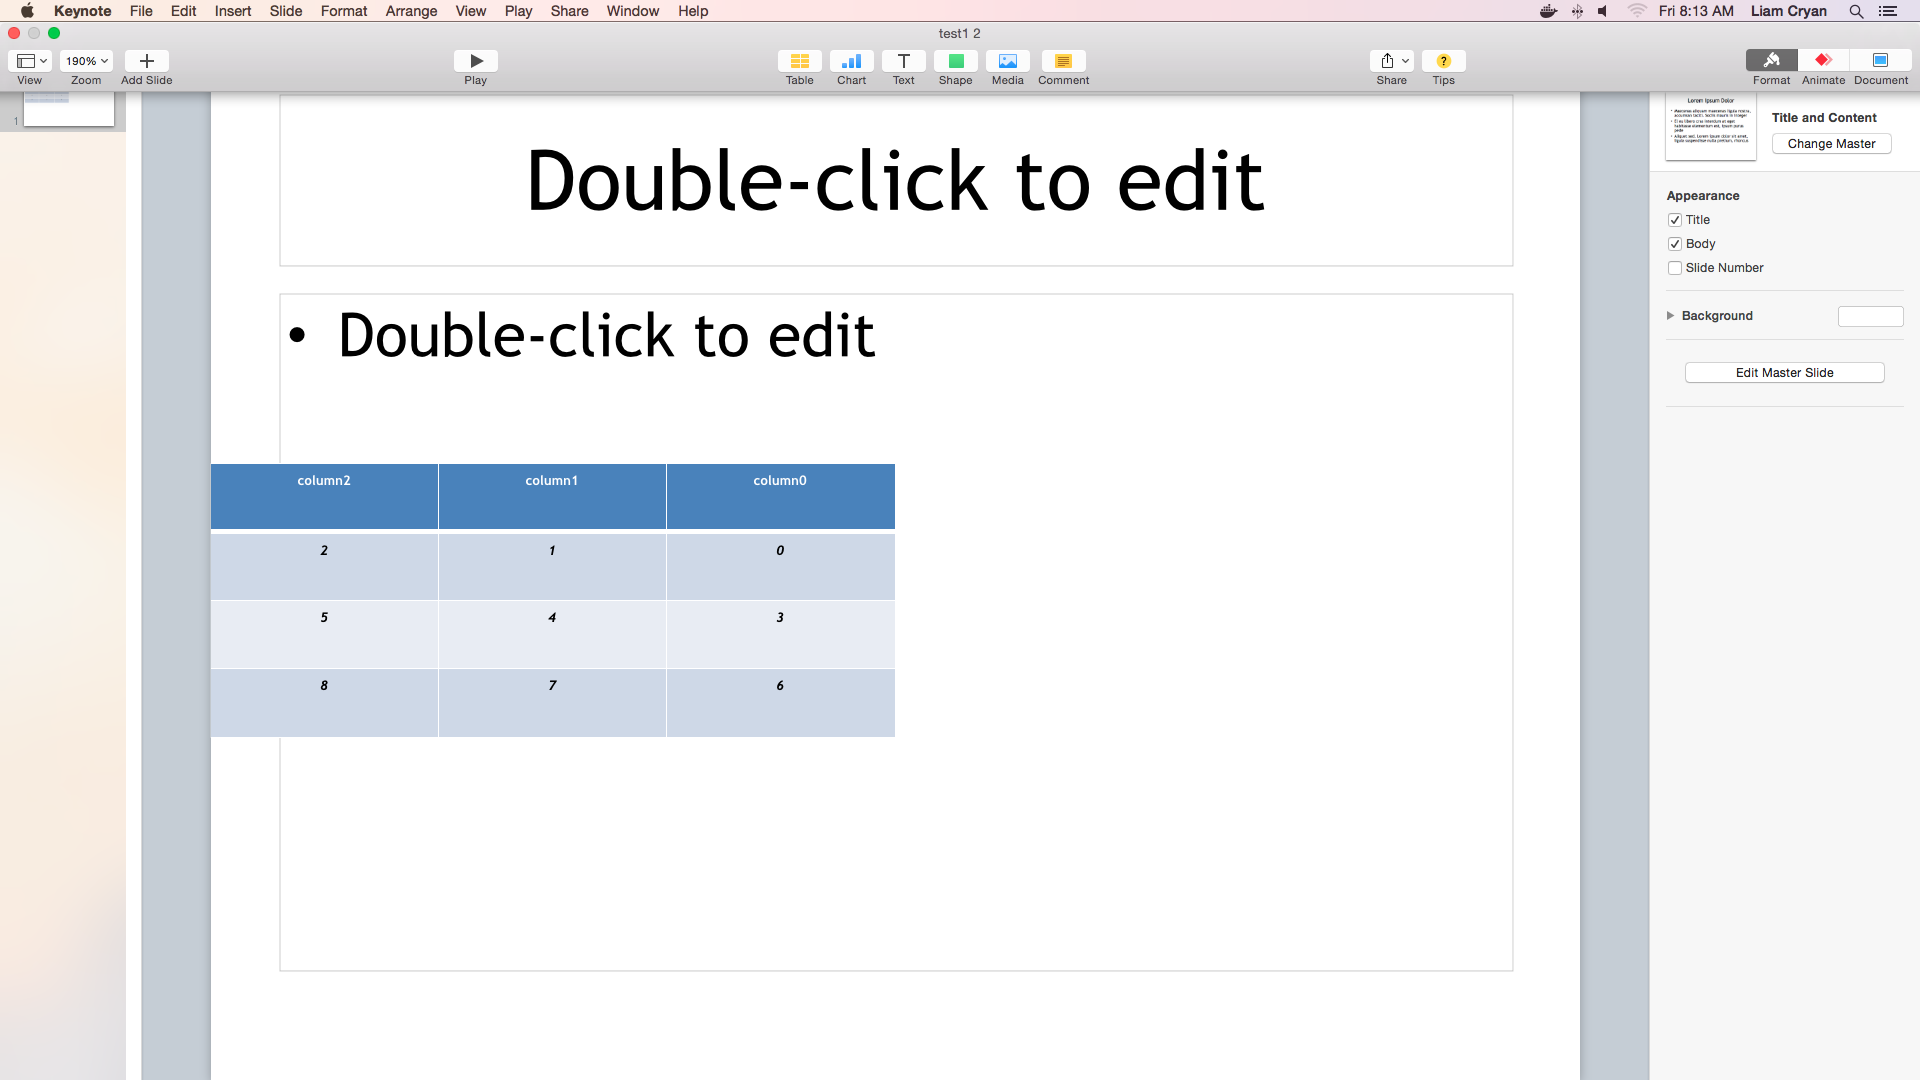
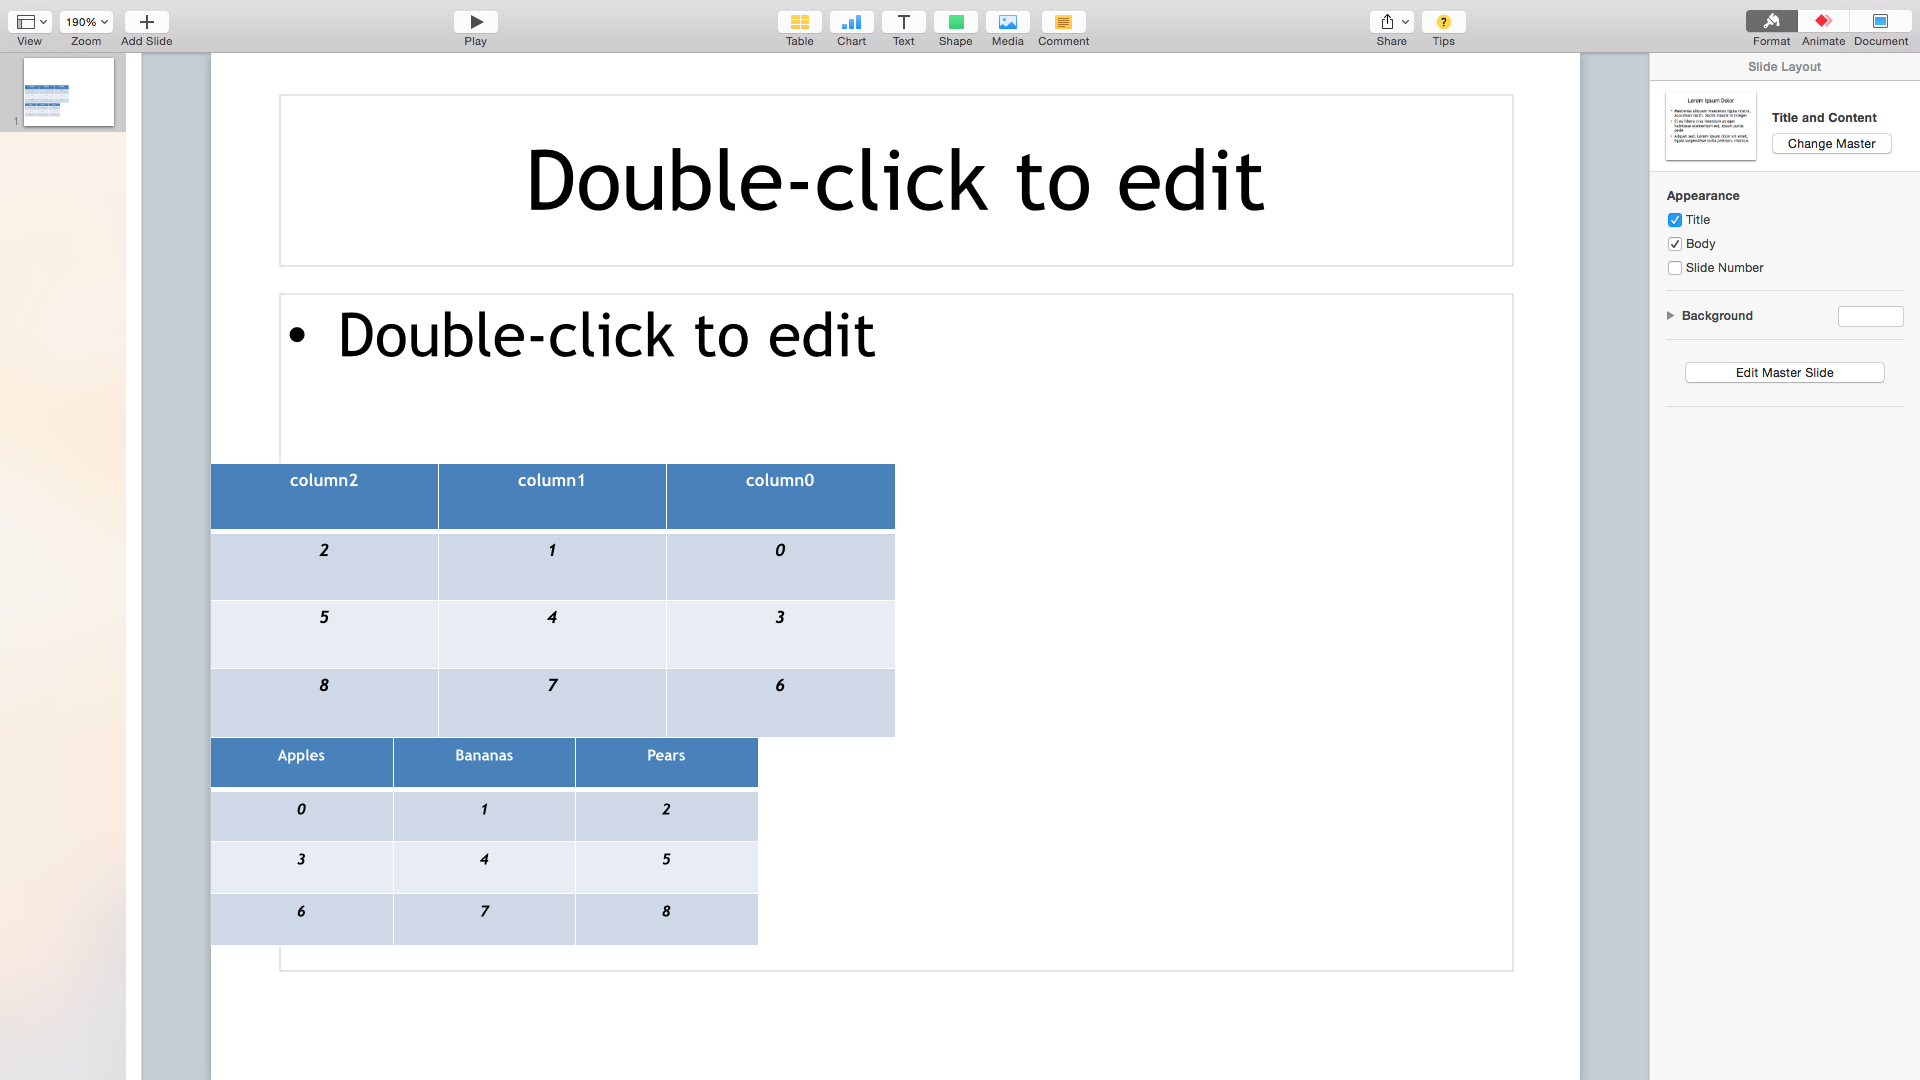
some of the images had extra stuff i didn't want to show, so fixed a few of them

diff --git a/README.rst b/README.rst
@@ -60,7 +60,7 @@ Set location of table
 Create column headers
 ---------------------
 
->>>    tbl3 = PptxTable(data1, presentation)
+>>>    tbl3 = PptxTable(data1)
 >>>    tbl3.set_table_location(left=Inches(0), top=Inches(3), width=Inches(5))
 >>>    tbl3.set_formatting(font_size=Pt(7), row_height=Inches(.5))
 >>>    tbl3.create_table(slide_index=0,
@@ -72,7 +72,7 @@ Create column headers
 Sort columns
 ------------
 
->>>    tbl4 = PptxTable(data1, presentation)
+>>>    tbl4 = PptxTable(data1)
 >>>    tbl4.set_table_location(left=Inches(0), top=Inches(3), width=Inches(5))
 >>>    tbl4.set_formatting(font_size=Pt(9), row_height=Inches(.5))
 >>>    tbl4.create_table(slide_index=0,
@@ -86,7 +86,7 @@ Sort columns
 Set column widths
 -----------------
 
->>>    tbl5 = PptxTable(data1, presentation)
+>>>    tbl5 = PptxTable(data1)
 >>>    tbl5.set_table_location(left=Inches(0), top=Inches(3), width=Inches(5))
 >>>    tbl5.set_formatting(font_size=Pt(9), row_height=Inches(.5))
 >>>    tbl5.create_table(slide_index=0,
@@ -110,7 +110,7 @@ Add another table to the same slide
 >>>    # get the presentation containing the previous table
 >>>    presentation = tbl5.prs
 >>>    tbl6 = PptxTable(data2, presentation)
->>>    tbl6.set_table_location(left=Inches(0), top=Inches(3), width=Inches(4))
+>>>    tbl6.set_table_location(left=Inches(0), top=Inches(5), width=Inches(4))
 >>>    tbl6.create_table(slide_index=0,
 >>>                      columns_headers=["Apples", "Bananas", "Pears"])
 >>>    tbl6.save_pptx("test1.pptx")
